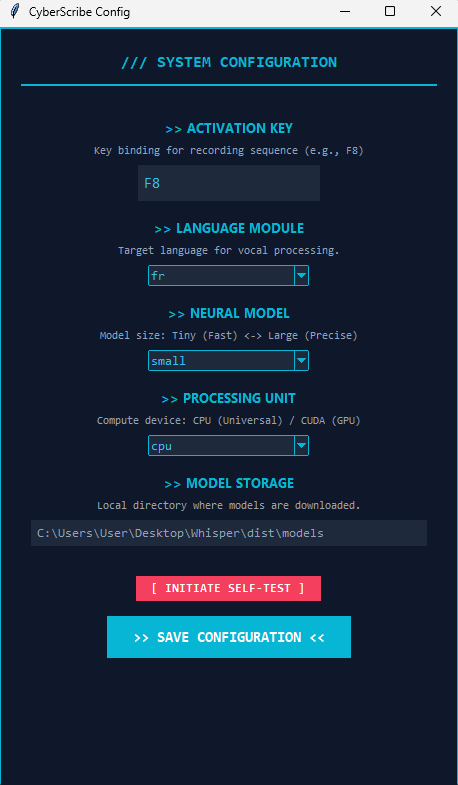
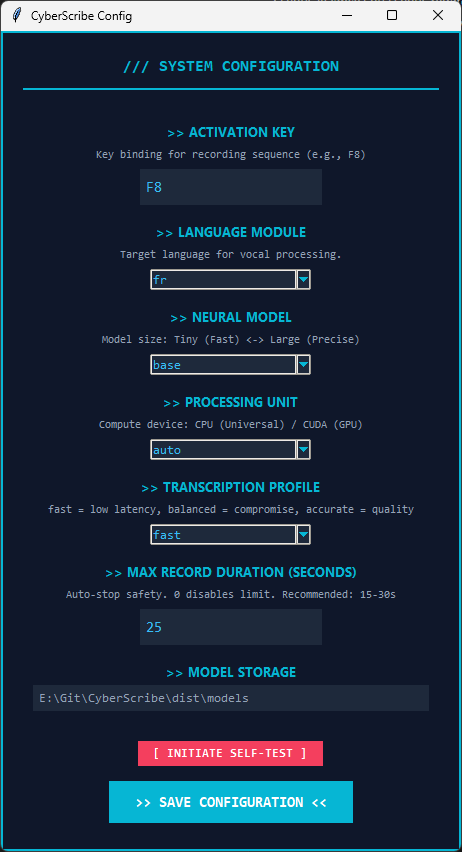
fix(core): improve config stability, embed VAD model, simplify live streaming UI, update screenshots

diff --git a/CyberScribe.py b/CyberScribe.py
@@ -11,7 +11,7 @@
 #    pipwin install pyaudio
 #
 # 3. COMPILATION EN .EXE (Mode Autonome)
-#    pyinstaller --noconsole --onefile --noconfirm --hidden-import=pyaudio --hidden-import=pynput.keyboard._win32 --hidden-import=pynput.mouse._win32 --name "CyberScribe" CyberScribe.py
+#    pyinstaller --noconsole --onefile --noconfirm --icon="app.ico" --hidden-import=pyaudio --hidden-import=pynput.keyboard._win32 --hidden-import=pynput.mouse._win32 --add-data "C:/Users/User/AppData/Local/Programs/Python/Python312/Lib/site-packages/faster_whisper/assets;faster_whisper/assets" --name "CyberScribe" CyberScribe.py
 #
 # ==================================================================================
 """
@@ -138,39 +138,22 @@ class PartialOverlay:
         
         self.window.config(bg=ACCENT_COLOR) # Glowing border effect
         
-        # Position at the bottom center of the screen
+        # Position at the bottom center, but much smaller
         screen_w = self.window.winfo_screenwidth()
         screen_h = self.window.winfo_screenheight()
-        w, h = 700, 95
+        w, h = 220, 45
         x = (screen_w - w) // 2
-        y = screen_h - h - 100
+        y = screen_h - h - 50
         self.window.geometry(f"{w}x{h}+{x}+{y}")
 
         # Main containment frame for border effect
         inner_frame = tk.Frame(self.window, bg=BG_COLOR)
         inner_frame.pack(fill='both', expand=True, padx=1, pady=1)
 
-        # Header with "REC" indicator
-        header = tk.Frame(inner_frame, bg=BG_COLOR)
-        header.pack(fill='x', padx=15, pady=(8, 2))
-
-        self.indicator = tk.Label(header, text="●", fg="#ff004c", bg=BG_COLOR, font=("Arial", 11, "bold"))
-        self.indicator.pack(side='left')
+        self.indicator = tk.Label(inner_frame, text="●", fg="#ff004c", bg=BG_COLOR, font=("Arial", 14, "bold"))
+        self.indicator.pack(side='left', padx=(15, 5))
         
-        tk.Label(header, text="SYSTEM.LIVE_TRANSCRIPTION", fg="#475569", bg=BG_COLOR, font=("Consolas", 8, "bold")).pack(side='left', padx=10)
-        
-        # Transcription Label
-        self.label = tk.Label(
-            inner_frame, 
-            text="STANDING BY...", 
-            font=("Segoe UI Semibold", 14), 
-            fg=ACCENT_COLOR, 
-            bg=BG_COLOR,
-            anchor='center',
-            justify='center',
-            wraplength=660
-        )
-        self.label.pack(expand=True, fill='both', padx=20, pady=(0, 10))
+        tk.Label(inner_frame, text="Enregistrement...", fg=ACCENT_COLOR, bg=BG_COLOR, font=("Segoe UI Semibold", 10)).pack(side='left', padx=(0, 15))
         
         self.active = True
         self._animate_pulse()
@@ -186,21 +169,10 @@ class PartialOverlay:
         except: pass
 
     def update_text(self, text):
-        if self.window and self.active:
-            # Clean up the text for better display
-            display_text = text.strip()
-            if not display_text: display_text = "..."
-            if len(display_text) > 120: 
-                display_text = "..." + display_text[-120:]
-            
-            # Use .after to ensure thread-safety (called from transcription thread)
-            try:
-                self.window.after(0, lambda: self._safe_update(display_text))
-            except: pass
+        pass # Fonctionnalité de live stream retirée, cette méthode est ignorée
 
     def _safe_update(self, text):
-        if self.label and self.active:
-            self.label.config(text=text)
+        pass
 
     def hide(self):
         self.active = False
@@ -224,8 +196,7 @@ DEFAULT_CONFIG = {
     "device": "auto",
     "compute_type": "int8",
     "transcription_profile": "fast",
-    "max_record_seconds": 25,
-    "streaming_preview": True
+    "max_record_seconds": 25
 }
 
 PROFILE_PRESETS = {
@@ -282,9 +253,13 @@ class ConfigManager:
             try:
                 with open(CONFIG_FILE, 'r', encoding='utf-8') as f:
                     data = json.load(f)
-                    self.config.update(data)
+                    if isinstance(data, dict):
+                        self.config.update(data)
             except Exception as e:
                 log_error(f"Erreur chargement config: {e}")
+        else:
+            # Create default config file if it doesn't exist
+            self.save()
 
     def save(self):
         try:
@@ -294,7 +269,10 @@ class ConfigManager:
             log_error(f"Erreur sauvegarde config: {e}")
 
     def get(self, key):
-        return self.config.get(key, DEFAULT_CONFIG.get(key))
+        val = self.config.get(key)
+        if val is None or val == "":
+            return DEFAULT_CONFIG.get(key)
+        return val
 
     def set(self, key, value):
         self.config[key] = value
@@ -517,8 +495,7 @@ class CyberScribeApp:
         self.auto_stop_timer = None
         
         self.overlay = PartialOverlay(self.root)
-        self.streaming_thread = None
-        self.last_partial_text = ""
+        self.settings_window = None
         
         self.icon_gray = get_icon_image(ICON_GRAY_B64)
         self.icon_red = get_icon_image(ICON_RED_B64)
@@ -577,12 +554,8 @@ class CyberScribeApp:
 
         self.recorder.start()
         
-        log(f"Config streaming_preview: {self.config.get('streaming_preview')}")
-        if self.config.get("streaming_preview"):
-            self.overlay.show()
-            self.overlay.update_text("LISTENING...")
-            self.streaming_thread = threading.Thread(target=self._streaming_loop, daemon=True)
-            self.streaming_thread.start()
+        # Show discrete overlay
+        self.overlay.show()
 
         max_seconds = self.config.get("max_record_seconds")
         try:
@@ -597,42 +570,6 @@ class CyberScribeApp:
             self.auto_stop_timer.daemon = True
             self.auto_stop_timer.start()
             log(f"Auto-stop armed at {max_seconds}s.")
-
-    def _streaming_loop(self):
-        log("Streaming loop started.")
-        last_processed_idx = 0
-        pause_between_runs = 1.0 
-        
-        while self.is_recording:
-            time.sleep(pause_between_runs)
-            if not self.is_recording: break
-            
-            # Use only the last 5 seconds for streaming preview to keep it fast
-            # 16000Hz, 1024 chunk -> ~15.6 frames per sec. 5s = ~80 frames.
-            current_frames = self.recorder.frames
-            current_count = len(current_frames)
-            
-            if current_count <= last_processed_idx + 8:
-                continue
-                
-            # Take only the tail of the buffer
-            tail_size = 120 # approx 7-8 seconds max
-            start_idx = max(0, current_count - tail_size)
-            fragment = current_frames[start_idx:]
-            
-            audio_path = self.recorder.save_fragment(fragment)
-            if audio_path:
-                text = self.transcriber.transcribe(audio_path, is_live=True)
-                try: os.remove(audio_path)
-                except: pass
-                
-                if text and self.is_recording:
-                    # Append or update? For simplicity, we just show the tail.
-                    # As we speak, the tail moves.
-                    self.overlay.update_text(text)
-                    log(f"Live Fragment: {text[:30]}...")
-            
-            last_processed_idx = current_count
 
     def stop_recording_action(self):
         log("Action: Stop Recording")
@@ -716,37 +653,42 @@ class CyberScribeApp:
         self.queue.put("quit")
 
     def open_settings_window(self):
+        if self.settings_window and self.settings_window.winfo_exists():
+            try:
+                self.settings_window.lift()
+                self.settings_window.focus_force()
+                return
+            except: pass
+
         try:
-            root = tk.Tk()
+            self.settings_window = tk.Toplevel(self.root)
+            root = self.settings_window
             root.title("CyberScribe Config")
-            root.geometry("460x860")
             
             # Colors
             C_BG = '#0f172a'       # Dark Slate (Main BG)
             C_FG = '#e2e8f0'       # Light Silver (Text)
             C_ACCENT = '#06b6d4'   # Cyan (Headers/Buttons)
-            C_ACCENT_HOVER = '#0891b2'
             C_INPUT_BG = '#1e293b' # Darker Slate (Inputs)
             C_INPUT_FG = '#38bdf8' # Sky Blue (Input Text)
             C_WARN = '#f43f5e'     # Rose (Test Button)
             
             root.configure(bg=C_ACCENT) 
             
-            root.update_idletasks()
             width = 460
             height = 820
-            x = (root.winfo_screenwidth() // 2) - (width // 2)
-            y = (root.winfo_screenheight() // 2) - (height // 2)
+            ws, hs = root.winfo_screenwidth(), root.winfo_screenheight()
+            x = (ws // 2) - (width // 2)
+            y = (hs // 2) - (height // 2)
             root.geometry(f'{width}x{height}+{x}+{y}')
             
-            root.lift()
-            root.attributes('-topmost',True)
-            root.after_idle(root.attributes,'-topmost',False)
+            root.attributes('-topmost', True)
+            root.after(100, lambda: root.attributes('-topmost', False))
 
             main_frame = tk.Frame(root, bg=C_BG)
             main_frame.pack(fill='both', expand=True, padx=2, pady=2)
 
-            style = ttk.Style()
+            style = ttk.Style(root)
             style.theme_use('clam')
             style.configure('TCombobox', fieldbackground=C_INPUT_BG, background=C_INPUT_BG, foreground=C_INPUT_FG, arrowcolor=C_ACCENT)
             
@@ -765,44 +707,41 @@ class CyberScribeApp:
 
             create_label(">> ACTIVATION KEY").pack(pady=(10, 2))
             create_help_text("Key binding for recording sequence (e.g., F8)").pack(pady=(0, 5))
-            hk_var = tk.StringVar(value=self.config.get("hotkey"))
+            hk_var = tk.StringVar(root, value=self.config.get("hotkey"))
             create_entry(hk_var).pack(pady=0, ipadx=5, ipady=3)
 
             create_label(">> LANGUAGE MODULE").pack(pady=(15, 2))
             create_help_text("Target language for vocal processing.").pack(pady=(0, 5))
-            lang_var = tk.StringVar(value=self.config.get("language") or "auto")
+            lang_var = tk.StringVar(root, value=self.config.get("language") or "auto")
             LANGUAGES = ["auto", "en", "fr", "de", "es", "it", "ja", "zh", "nl", "uk", "pt", "ru"]
             lang_cb = ttk.Combobox(main_frame, textvariable=lang_var, values=LANGUAGES, font=("Consolas", 10))
             lang_cb.pack(pady=0)
 
             create_label(">> NEURAL MODEL").pack(pady=(15, 2))
             create_help_text("Model size: Tiny (Fast) <-> Large (Precise)").pack(pady=(0, 5))
-            model_var = tk.StringVar(value=self.config.get("model_size"))
+            model_var = tk.StringVar(root, value=self.config.get("model_size"))
             model_cb = ttk.Combobox(main_frame, textvariable=model_var, values=["tiny", "base", "small", "medium", "large-v3"], font=("Consolas", 10))
             model_cb.pack(pady=0)
 
             create_label(">> PROCESSING UNIT").pack(pady=(15, 2))
             create_help_text("Compute device: CPU (Universal) / CUDA (GPU)").pack(pady=(0, 5))
-            device_var = tk.StringVar(value=self.config.get("device"))
+            device_var = tk.StringVar(root, value=self.config.get("device"))
             device_cb = ttk.Combobox(main_frame, textvariable=device_var, values=["auto", "cpu", "cuda"], font=("Consolas", 10))
             device_cb.pack(pady=0)
 
             create_label(">> TRANSCRIPTION PROFILE").pack(pady=(15, 2))
             create_help_text("fast = low latency, balanced = compromise, accurate = quality").pack(pady=(0, 5))
-            profile_var = tk.StringVar(value=self.config.get("transcription_profile") or "fast")
+            profile_var = tk.StringVar(root, value=self.config.get("transcription_profile") or "fast")
             profile_cb = ttk.Combobox(main_frame, textvariable=profile_var, values=["fast", "balanced", "accurate"], font=("Consolas", 10))
             profile_cb.pack(pady=0)
 
             create_label(">> MAX RECORD DURATION (SECONDS)").pack(pady=(15, 2))
             create_help_text("Auto-stop safety. 0 disables limit. Recommended: 15-30s").pack(pady=(0, 5))
-            max_record_var = tk.StringVar(value=str(self.config.get("max_record_seconds") or 25))
+            max_record_var = tk.StringVar(root, value=str(self.config.get("max_record_seconds") or 25))
             create_entry(max_record_var).pack(pady=0, ipadx=5, ipady=3)
 
-            streaming_var = tk.BooleanVar(value=bool(self.config.get("streaming_preview")))
-            tk.Checkbutton(main_frame, text="LIVE TRANSLATION PREVIEW (STREAMING)", variable=streaming_var, bg=C_BG, fg=C_ACCENT, selectcolor=C_BG, activebackground=C_BG, activeforeground=C_ACCENT, font=("Segoe UI", 9, "bold")).pack(pady=10)
-
             create_label(">> MODEL STORAGE").pack(pady=(15, 2))
-            path_var = tk.StringVar(value=MODELS_DIR)
+            path_var = tk.StringVar(root, value=MODELS_DIR)
             path_entry = tk.Entry(main_frame, textvariable=path_var, bg=C_INPUT_BG, fg='#94a3b8', font=("Consolas", 9), relief='flat', bd=5, state='readonly', readonlybackground=C_INPUT_BG)
             path_entry.pack(pady=0, fill='x', padx=30)
 
@@ -819,13 +758,11 @@ class CyberScribeApp:
                 try:
                     self.config.set("max_record_seconds", int(max_record_var.get()))
                 except: pass
-                self.config.set("streaming_preview", streaming_var.get())
                 self.setup_hotkey()
                 messagebox.showinfo("CyberScribe", "SYSTEM UPDATED.", parent=root)
                 root.destroy()
 
             tk.Button(main_frame, text=">> SAVE CONFIGURATION <<", command=save, bg=C_ACCENT, fg="white", font=("Consolas", 11, "bold"), relief='flat').pack(pady=10, ipadx=20, ipady=5)
-            root.mainloop()
         except Exception as e:
             log_error(f"GUI Error: {e}")
 
